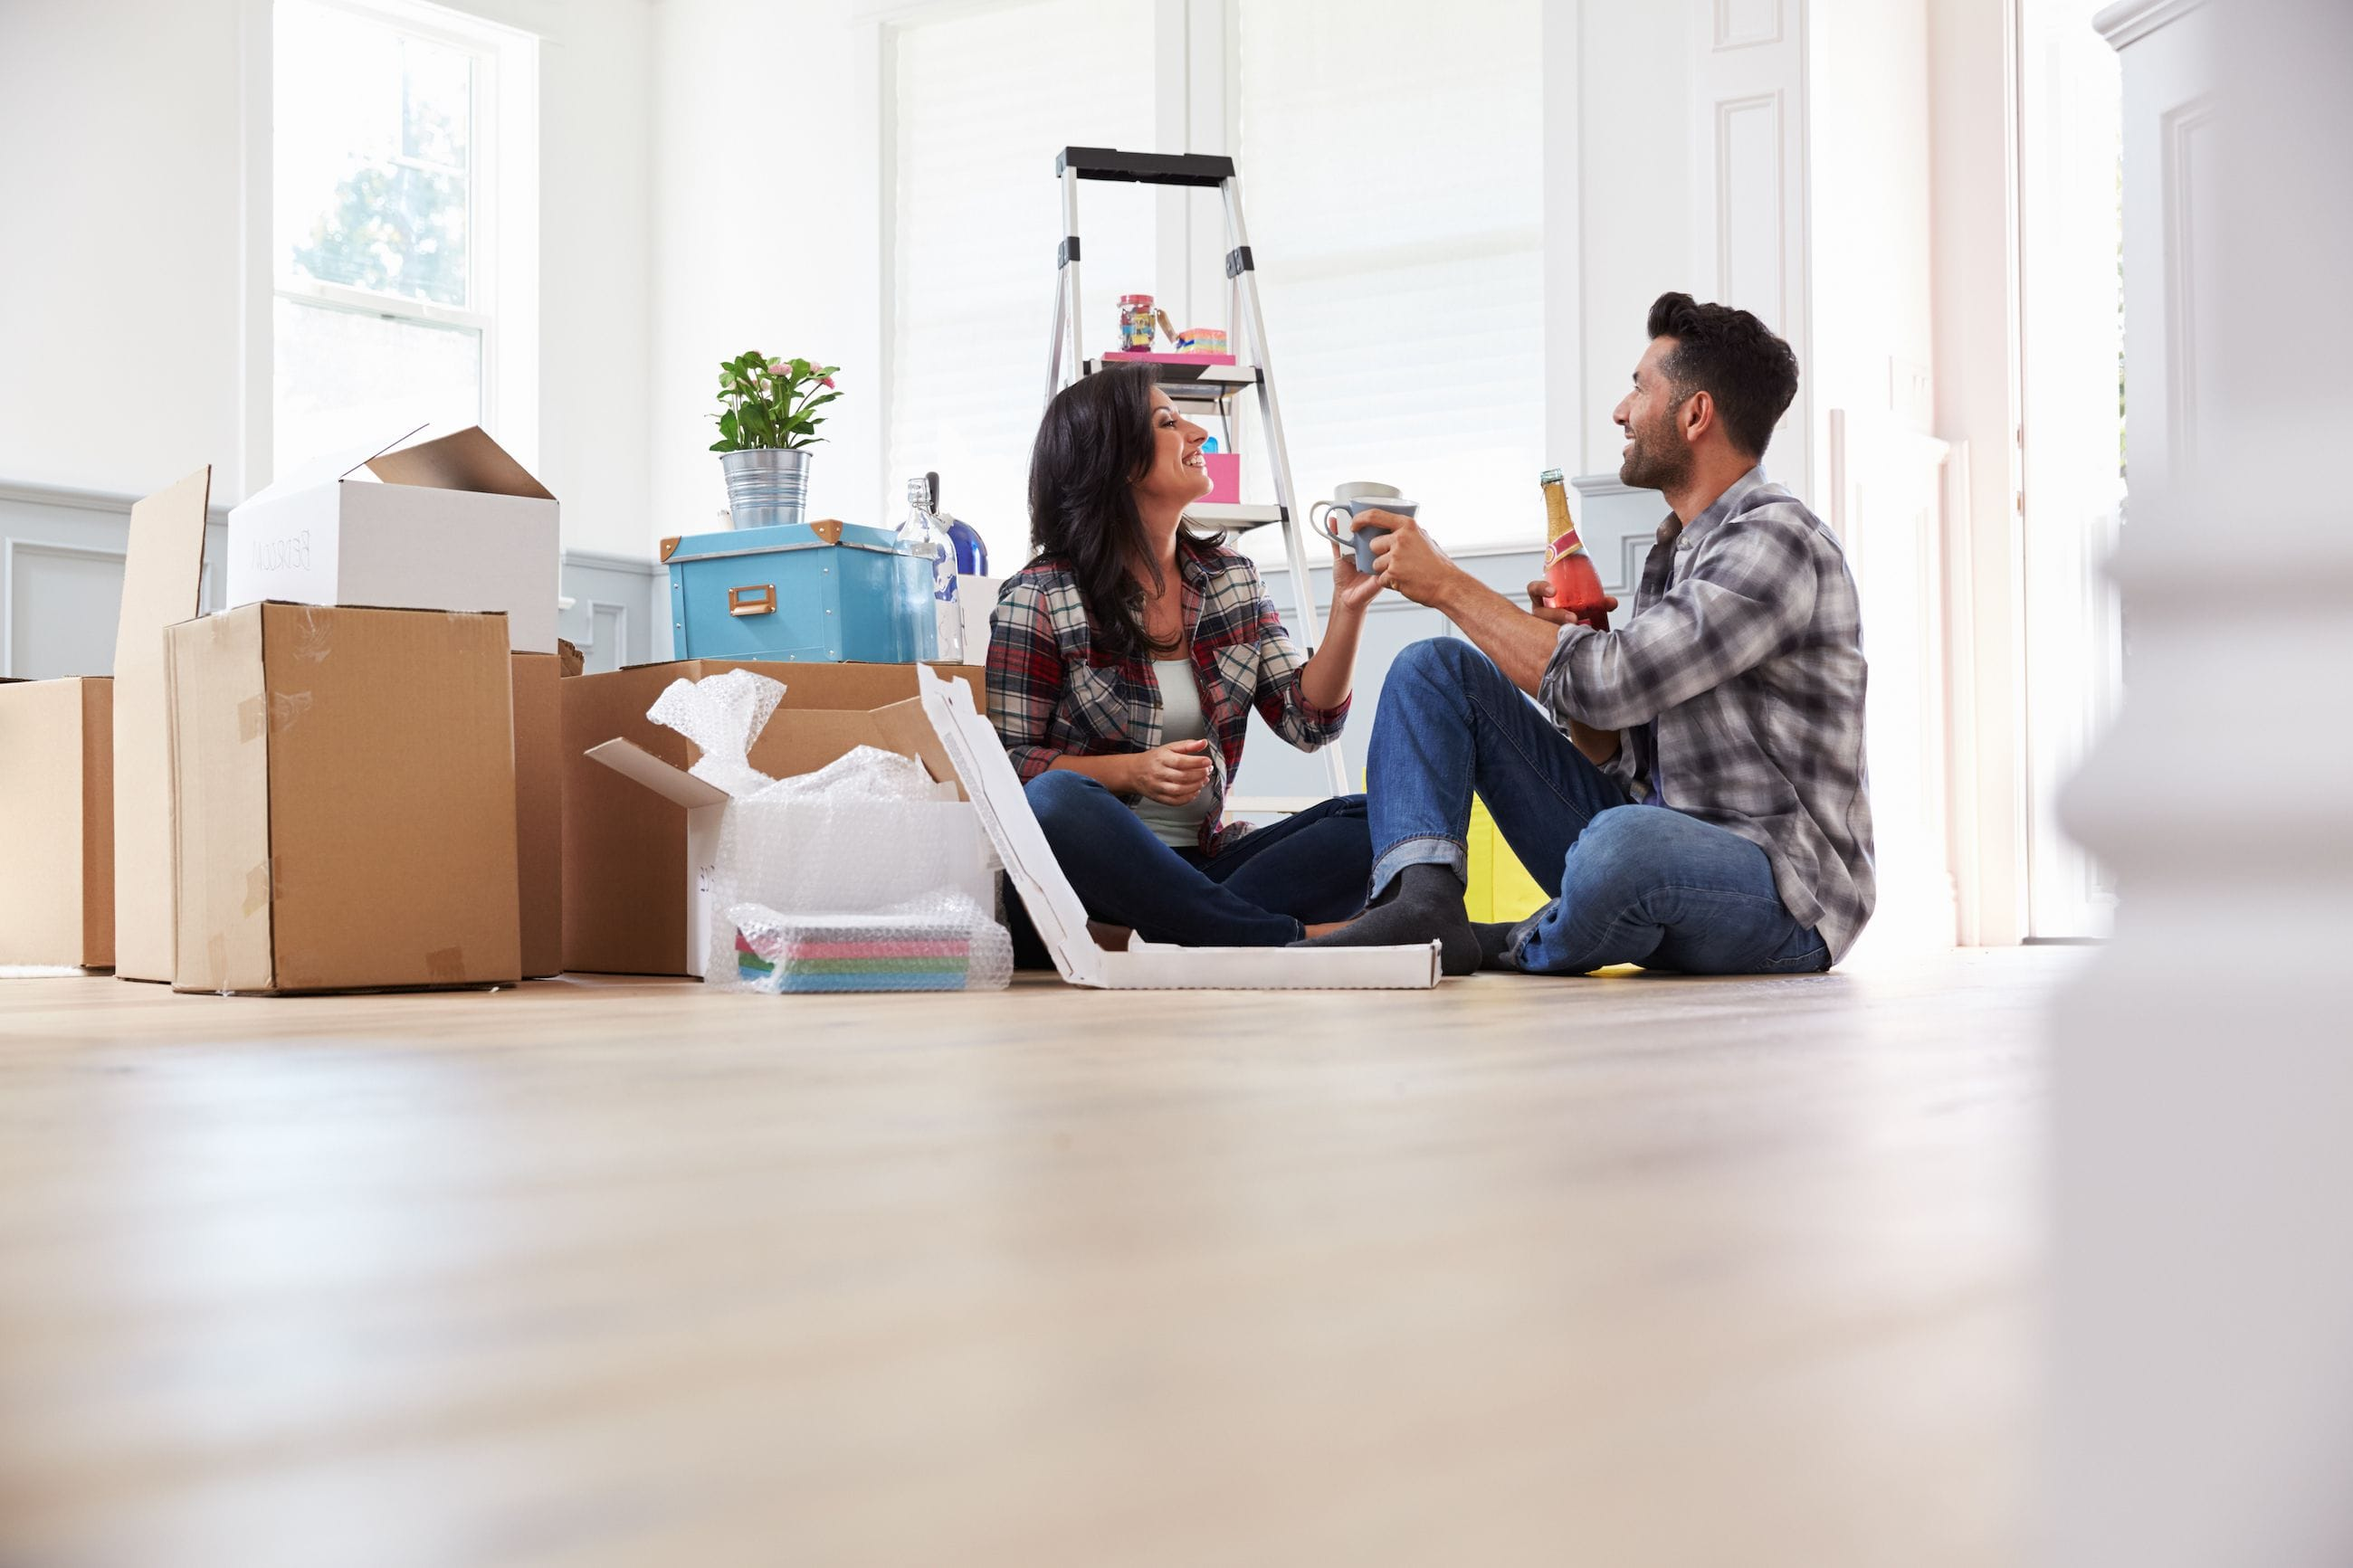
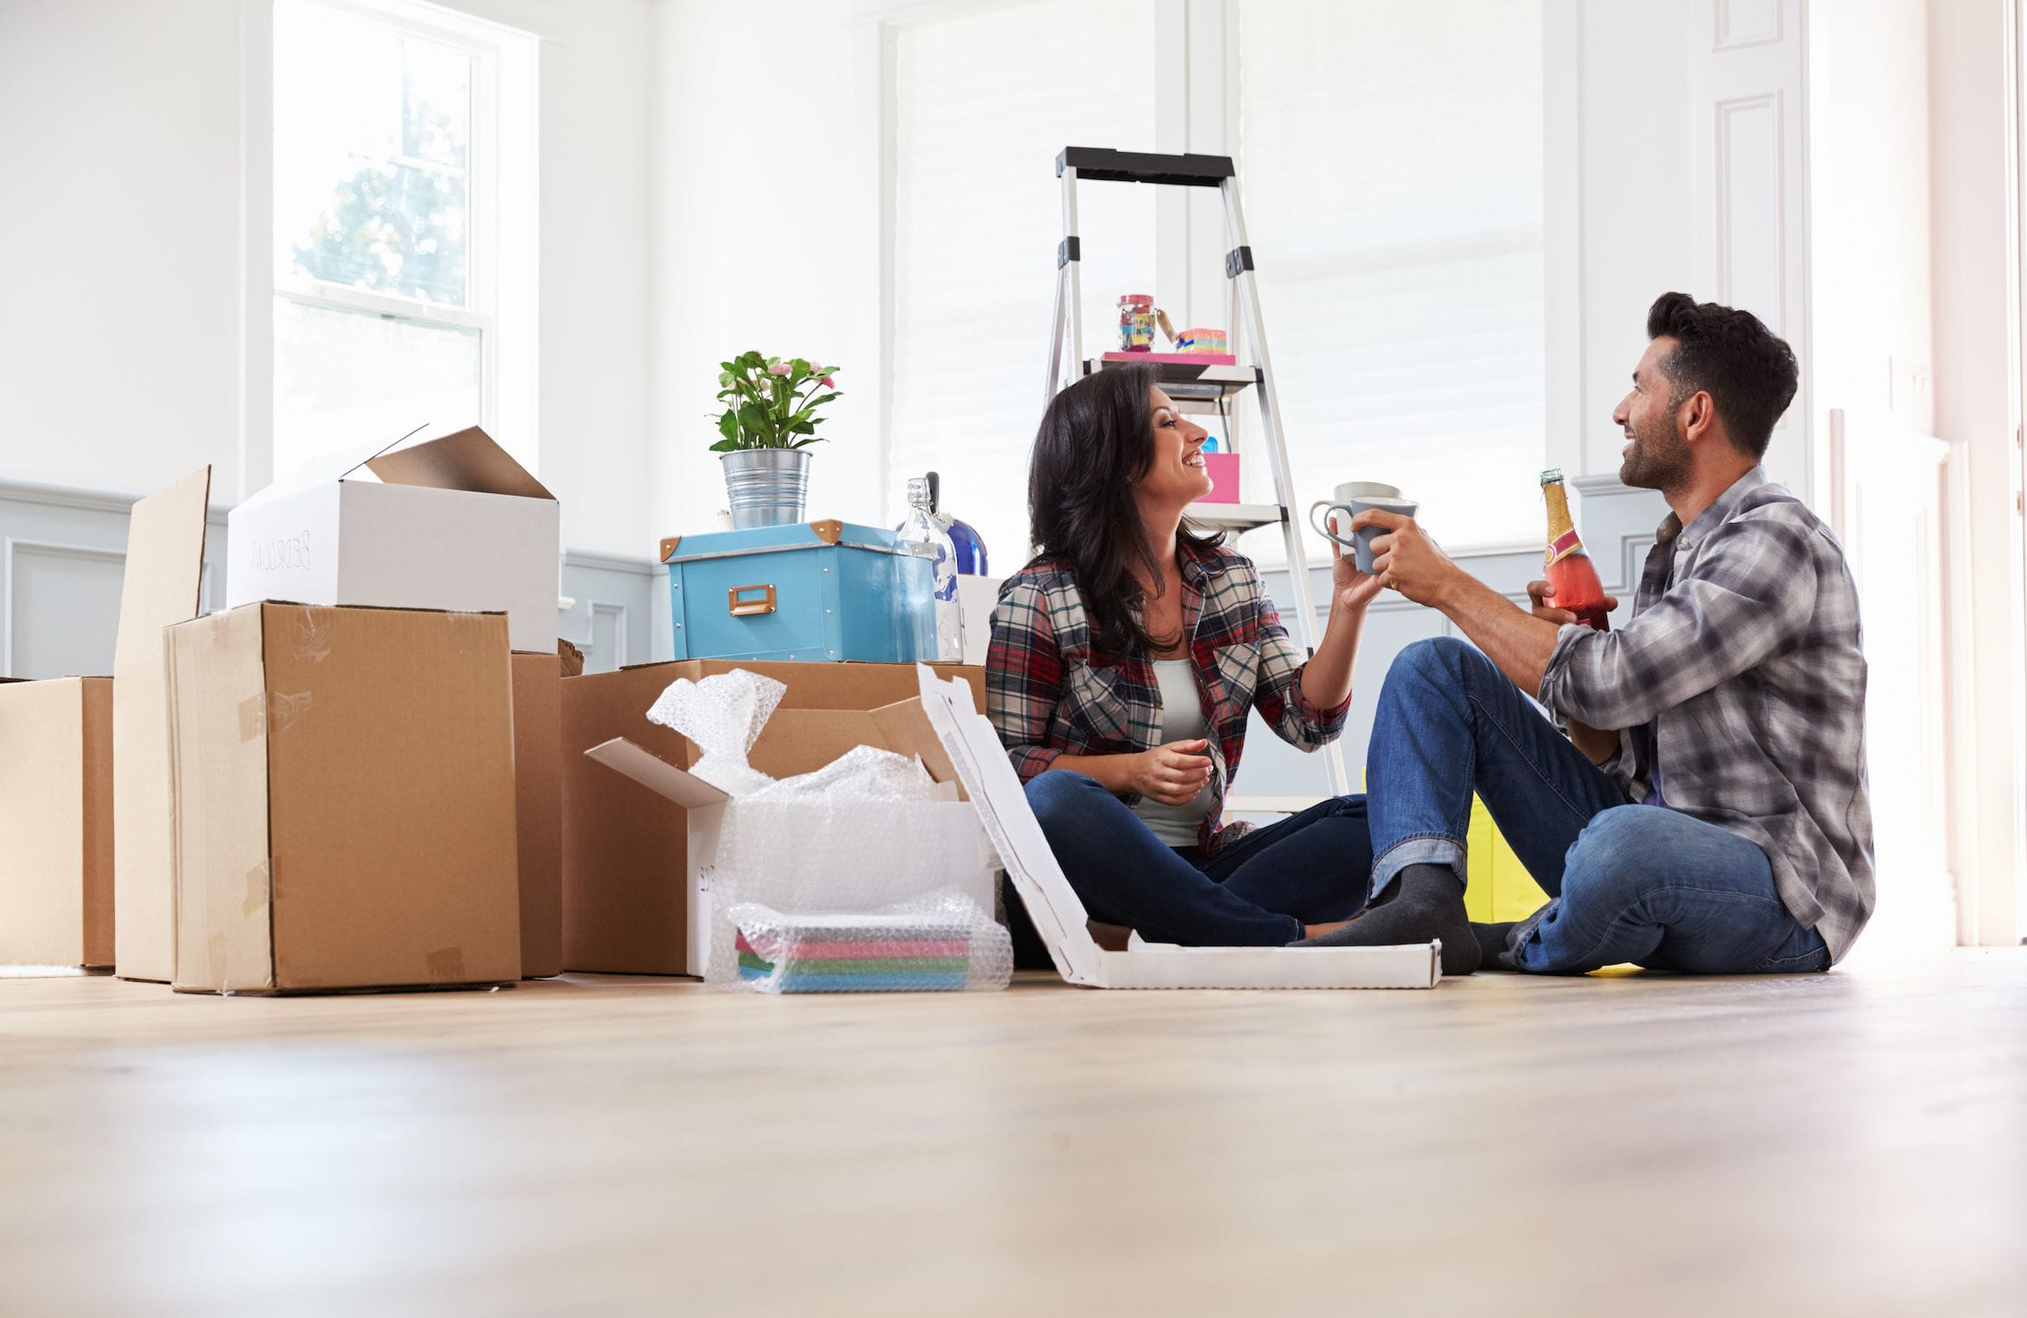
modified:   coliving.html 	modified:   css/media.css 	modified:   css/style.css 	modified:   faq.html 	modified:   images/stock-couple-apartment-floor.cb435d7e.jpg 	modified:   index.html 	modified:   renters-insurance.html

diff --git a/coliving.html b/coliving.html
@@ -74,16 +74,11 @@
     </header>
 
     <main>
-        <section class="hero-insurance">
+        <section class="hero">
             <img src="images/AdobeStock_269940647-min_30af3e9.jpg" alt="">
             <div class="frame">
-                <div class="container">
-                    <div class="row justify-content-center">
-                        <div class="col-sm-12 col-md-12 text-center">
-                            <h1>Coliving (Communal Living): The Definitive Guide</h1>
-                        </div>
-                    </div>
-                </div>
+                <h1>Coliving (Communal Living): The Definitive Guide</h1>
+                <a href="#" class="btn btn-lg bg-gradient get-offer rounded-0">Get offer <i class="bi-arrow-right"></i></a>
             </div>
         </section>
         <section class="container py-4">
@@ -92,7 +87,7 @@
                     <h1 class="fw-bolder">What is Coliving?</h1>
                     <p>Coliving is a communal lifestyle where people with similar values occupy a private room in a shared space. To understand co-living, it is essential to understand the concept of communal living.esidents in a shared community share not only the living spaces but also intentions, values, ideas, and interests. The commune includes people from different parts of life who have come together to learn from the experience of others and make new friends with whom they can have shared activities.</p>
                 </div>
-                <div class="col-sm-12 col-md-10">
+                <div class="col-sm-12 col-md-10 my-2">
                     <img class="rounded-3" src="images/roommates-eating.jpg.jpg" alt="">
                 </div>
                 <div class="col-sm-12 col-md-8 mt-4">
@@ -105,41 +100,47 @@
             </div>
         </section>
         <section class="hero-location py-5" style="background-color: #060630;">
-            <div class="container">
+            <div class="container-fluid">
                 <div class="row">
                     <div class="col-sm-12">
                         <h1 class="title text-white">Our Locations</h1>
                     </div>
                 </div>
                 <div class="row mt-4">
-                    <div class="col-sm-12 col-md-4">
-                        <div class="card rounded-0">
-                            <img src="images/places/17.webp" alt="" class="card-image">
-                            <div class="card-body">
-                                <h1 class="fs-2">Manassas, Virginia</h1>
-                                <p class="fs-5 bg-warning bg-opacity-10 p-3">Best co-living spaces in Manassas: affordable prices, free utilities, weekly cleaning, interested-based community. Find your home in Manassas!</p>
-                                <a href="#" class="btn btn-warning btn-lg bg-gradient rounded-0">Coliving in Manassas</a>
-                            </div>
-                        </div>
-                    </div>
-                    <div class="col-sm-12 col-md-4">
-                        <div class="card rounded-0">
-                            <img src="images/places/19.webp" alt="" class="card-image">
-                            <div class="card-body">
-                                <h1 class="fs-2">Manassas, Virginia</h1>
-                                <p class="fs-5 bg-info bg-opacity-10 p-3">Best co-living spaces in Manassas: affordable prices, free utilities, weekly cleaning, interested-based community. Find your home in Manassas!</p>
-                                <a href="#" class="btn btn-info btn-lg bg-gradient rounded-0">Coliving in Manassas</a>
-                            </div>
-                        </div>
-                    </div>
-                    <div class="col-sm-12 col-md-4">
-                        <div class="card rounded-0">
-                            <img src="images/places/20.webp" alt="" class="card-image">
-                            <div class="card-body">
-                                <h1 class="fs-2">Manassas, Virginia</h1>
-                                <p class="fs-5 bg-dark bg-opacity-10 p-3">Best co-living spaces in Manassas: affordable prices, free utilities, weekly cleaning, interested-based community. Find your home in Manassas!</p>
-                                <a href="#" class="btn btn-dark btn-lg bg-gradient rounded-0">Coliving in Manassas</a>
-                            </div>
+                    <div id="our-location" class="col-sm-12 splide my-2">
+                        <div class="splide__track">
+                            <ul class="splide__list">
+                                <li class="splide__slide">
+                                    <div class="card rounded-0">
+                                        <img src="images/places/17.webp" alt="" class="card-image">
+                                        <div class="card-body">
+                                            <h1 class="fs-2">Manassas</h1>
+                                            <p class="fs-5 bg-warning bg-opacity-10 p-3">Best co-living spaces in Manassas: affordable prices, free utilities, weekly cleaning, interested-based community. Find your home in Manassas!</p>
+                                            <a href="#" class="btn btn-warning btn-lg bg-gradient rounded-0">Coliving in Manassas</a>
+                                        </div>
+                                    </div>
+                                </li>
+                                <li class="splide__slide">
+                                    <div class="card rounded-0">
+                                        <img src="images/places/19.webp" alt="" class="card-image">
+                                        <div class="card-body">
+                                            <h1 class="fs-2">Manassas</h1>
+                                            <p class="fs-5 bg-info bg-opacity-10 p-3">Best co-living spaces in Manassas: affordable prices, free utilities, weekly cleaning, interested-based community. Find your home in Manassas!</p>
+                                            <a href="#" class="btn btn-info btn-lg bg-gradient rounded-0">Coliving in Manassas</a>
+                                        </div>
+                                    </div>
+                                </li>
+                                <li class="splide__slide">
+                                    <div class="card rounded-0">
+                                        <img src="images/places/20.webp" alt="" class="card-image">
+                                        <div class="card-body">
+                                            <h1 class="fs-2">Manassas</h1>
+                                            <p class="fs-5 bg-dark bg-opacity-10 p-3">Best co-living spaces in Manassas: affordable prices, free utilities, weekly cleaning, interested-based community. Find your home in Manassas!</p>
+                                            <a href="#" class="btn btn-dark btn-lg bg-gradient rounded-0">Coliving in Manassas</a>
+                                        </div>
+                                    </div>
+                                </li>
+                            </ul>
                         </div>
                     </div>
                 </div>
@@ -496,6 +497,29 @@
     </footer>
     <script type="text/javascript">
         document.addEventListener('DOMContentLoaded', function () {
+            new Splide('#our-location', {
+                autoplay: true,
+                interval: 5000,
+                gap: '25px',
+                pagination: false,
+                perPage: 1,
+                mediaQuery: 'min',
+                breakpoints: {
+                    0: {
+                        type: 'loop',
+                        arrows: true,
+                        perPage: 1,
+                        fixedWidth: '100%',
+                        padding: '5px'
+                    },
+                    768: {
+                        type: 'slide',
+                        arrows: false,
+                        perPage: 4,
+                        fixedWidth: '25%',
+                    },
+                }
+            }).mount();
             new Splide('#location1', {
                 type: 'loop',
                 autoplay: true,

diff --git a/css/style.css b/css/style.css
@@ -128,11 +128,20 @@ img {
 	box-shadow: 0px 0px 10px 1px rgba(0, 0, 0, 0.5);
 }
 
-.hero .frame {
+
+.hero {
+	height: 600px;
+	overflow: hidden;
 	position: relative;
 }
 
-.hero .frame .call-to-action {
+.hero img {
+	width: 100%;
+	height: 100%;
+	object-fit: cover;
+}
+
+.hero .frame {
 	position: absolute;
 	left: 0px;
 	bottom: 0px;
@@ -140,17 +149,18 @@ img {
 	flex-flow: column;
 	align-items: start;
 	justify-content: center;
+	width: 100%;
 	height: 100%;
-	max-width: 50%;
-	padding: 0px 120px;
-	background: linear-gradient(to right, rgba(0, 0, 0, 0.8), rgba(0, 0, 0, 0.5), transparent);
+	padding: 0px 100px;
+	background: linear-gradient(to right, rgba(0, 0, 0, 0.8), rgba(0, 0, 0, 0.2), transparent);
 }
 
-.hero .frame .call-to-action h2 {
+.hero .frame h1 {
 	color: #fff;
-	font-size: 40px;
+	font-size: 35px;
 	line-height: 50px;
 	margin: 20px 0px;
+	text-shadow: 0px 2px 4px #000;
 }
 
 .hero-single {
@@ -180,54 +190,6 @@ img {
 	padding: 8px 50px;
 }
 
-.hero-insurance {
-	max-height: 600px;
-	overflow: hidden;
-	position: relative;
-}
-
-.hero-insurance img {
-	height: 100%;
-	max-height: 100%;
-	object-fit: cover;
-}
-
-.hero-insurance .frame {
-	top: 0px;
-	right: 0px;
-	left: 0px;
-	bottom: 0px;
-	position: absolute;
-	display: flex;
-	flex-flow: column;
-	align-items: center;
-	justify-content: center;
-	background-color: rgba(0, 0, 0, 0.3);
-}
-
-.hero-insurance * {
-	color: #fff;
-}
-
-.hero-insurance h1 {
-	font-size: 40px;
-	font-weight: 300;
-	letter-spacing: 1px;
-}
-
-.hero-insurance p {
-	font-size: 24px;
-}
-
-.hero-insurance a {
-	padding: 10px 40px;
-	font-size: 24px;
-}
-
-.hero-insurance small {
-	font-size: 13px;
-}
-
 .hero-location .title {
 	color: #fff;
 	font-size: 50px;
@@ -241,6 +203,7 @@ img {
 	padding: 0px 10%;
 	justify-content: center;
 	background-color: #F2EFE5;
+	text-align: center;
 }
 
 .hero-short form {
@@ -267,8 +230,6 @@ img {
 	border: none;
 	background-color: transparent;
 }
-
-
 
 .splide__slide img {
   width: 100%;

diff --git a/renters-insurance.html b/renters-insurance.html
@@ -74,19 +74,13 @@
     </header>
 
     <main>
-        <section class="hero-insurance">
+        <section class="hero">
             <img src="images/stock-couple-apartment-floor.cb435d7e.jpg" alt="">
             <div class="frame">
-                <div class="container">
-                    <div class="row">
-                        <div class="col-sm-12 col-md-6 text-center text-md-start">
-                            <h1>Get Renters Insurance and protect your treasures</h1>
-                            <p>We've made it simple: tell us about you, where you live, and we'll get you the best policy.</p>
-                            <a href="#" class="btn btn-success btn-lg bg-gradient text-truncate"><i class="bi-shield-fill-check"></i> Get Started</a>
-                            <small class="d-block my-2">We'll never sell or share your personal information</small>
-                        </div>
-                    </div>
-                </div>
+                <h1 style="font-weight: 400; text-shadow: none;" class="mb-0">Get Renters Insurance and protect your treasures</h1>
+                <p class="d-none d-md-block text-white">We've made it simple: tell us about you, where you live,<br>and we'll get you the best policy.</p>
+                <a href="#" class="btn btn-success btn-lg bg-gradient text-truncate fs-3 px-md-4 my-2"><i class="bi-shield-fill-check"></i> Get Started</a>
+                <small class="d-none d-md-block my-2 fs-6 text-white">We'll never sell or share your personal information</small>
             </div>
         </section>
         <section class="container py-4">

diff --git a/index.html b/index.html
@@ -74,27 +74,27 @@
 	</header>
 
 	<main>
-		<section class="splide hero">
+		<section class="splide">
 			<div class="splide__track">
 				<ul class="splide__list">
-					<li class="splide__slide frame">
+					<li class="splide__slide hero">
 						<img src="images/slides/Frame-1.jpg" alt="">
-						<div class="call-to-action">
-							<h2>Monthly shared apartments in Manassas, Virginia</h2>
+						<div class="frame">
+							<h1>Monthly shared apartments in Manassas, Virginia</h1>
 							<a href="#" class="btn btn-lg bg-gradient get-offer rounded-0">Get offer <i class="bi-arrow-right"></i></a>
 						</div>
 					</li>
-					<li class="splide__slide frame">
+					<li class="splide__slide hero">
 						<img src="images/slides/Frame-2.jpg" alt="">
-						<div class="call-to-action">
-							<h2>Less paper work, more flexibility. No credit check</h2>
+						<div class="frame">
+							<h1>Less paper work, more flexibility. No credit check</h1>
 							<a href="#" class="btn btn-lg bg-gradient get-offer rounded-0">Get offer <i class="bi-arrow-right"></i></a>
 						</div>
 					</li>
-					<li class="splide__slide frame">
+					<li class="splide__slide hero">
 						<img src="images/slides/Frame-3.jpg" alt="">
-						<div class="call-to-action">
-							<h2>Coliving ready-to-move-in even today</h2>
+						<div class="frame">
+							<h1>Coliving ready-to-move-in even today</h1>
 							<a href="#" class="btn btn-lg bg-gradient get-offer rounded-0">Get offer <i class="bi-arrow-right"></i></a>
 						</div>
 					</li>

diff --git a/css/media.css b/css/media.css
@@ -21,27 +21,28 @@
     .navbar .nav-item .hover-dropdown *:hover {
         color: #fff;
     }
-	.hero .frame img {
-		min-height: 300px;
-		object-fit: cover;
-	}
-	.hero .frame .call-to-action {
+
+    .hero {
+        height: 300px;
+    }
+
+	.hero .frame {
 		width: 100%;
 		max-width: 100%;
 		height: 100%;
-		padding: 0px;
+		padding: 0px 20px;
 		align-items: center;
 		background: rgba(0, 0, 0, 0.5);
+        text-align: center;
 	}
-	.hero .frame .call-to-action h2 {
-		font-size: 30px;
-		text-align: center;
-		padding: 0px 50px;
-		line-height: 35px;
-	}
+
+    .hero .frame h1,
     .hero-single .frame h1 {
         font-size: 30px;
+        line-height: 30px;
+        font-weight: 300;
     }
+
     .hero-short form {
         padding: 5px 10px;
     }
@@ -54,10 +55,11 @@
         font-size: 13px;
         padding: 10px 40px;
     }
+
     .banner::before,
     .banner::after {
-    display: none;
-}
+        display: none;
+    }
     .banner h1 {
         font-size: 40px;
     }

diff --git a/faq.html b/faq.html
@@ -74,7 +74,7 @@
     </header>
 
     <main>
-        <section class="hero-short text-center">
+        <section class="hero-short">
             <h1 class="fs-1">Frequently Asked Questions</h1>
             <form action="" method="get" class="my-2">
                 <input placeholder="Enter your question" class="form-control" type="text" autocomplete="off">
